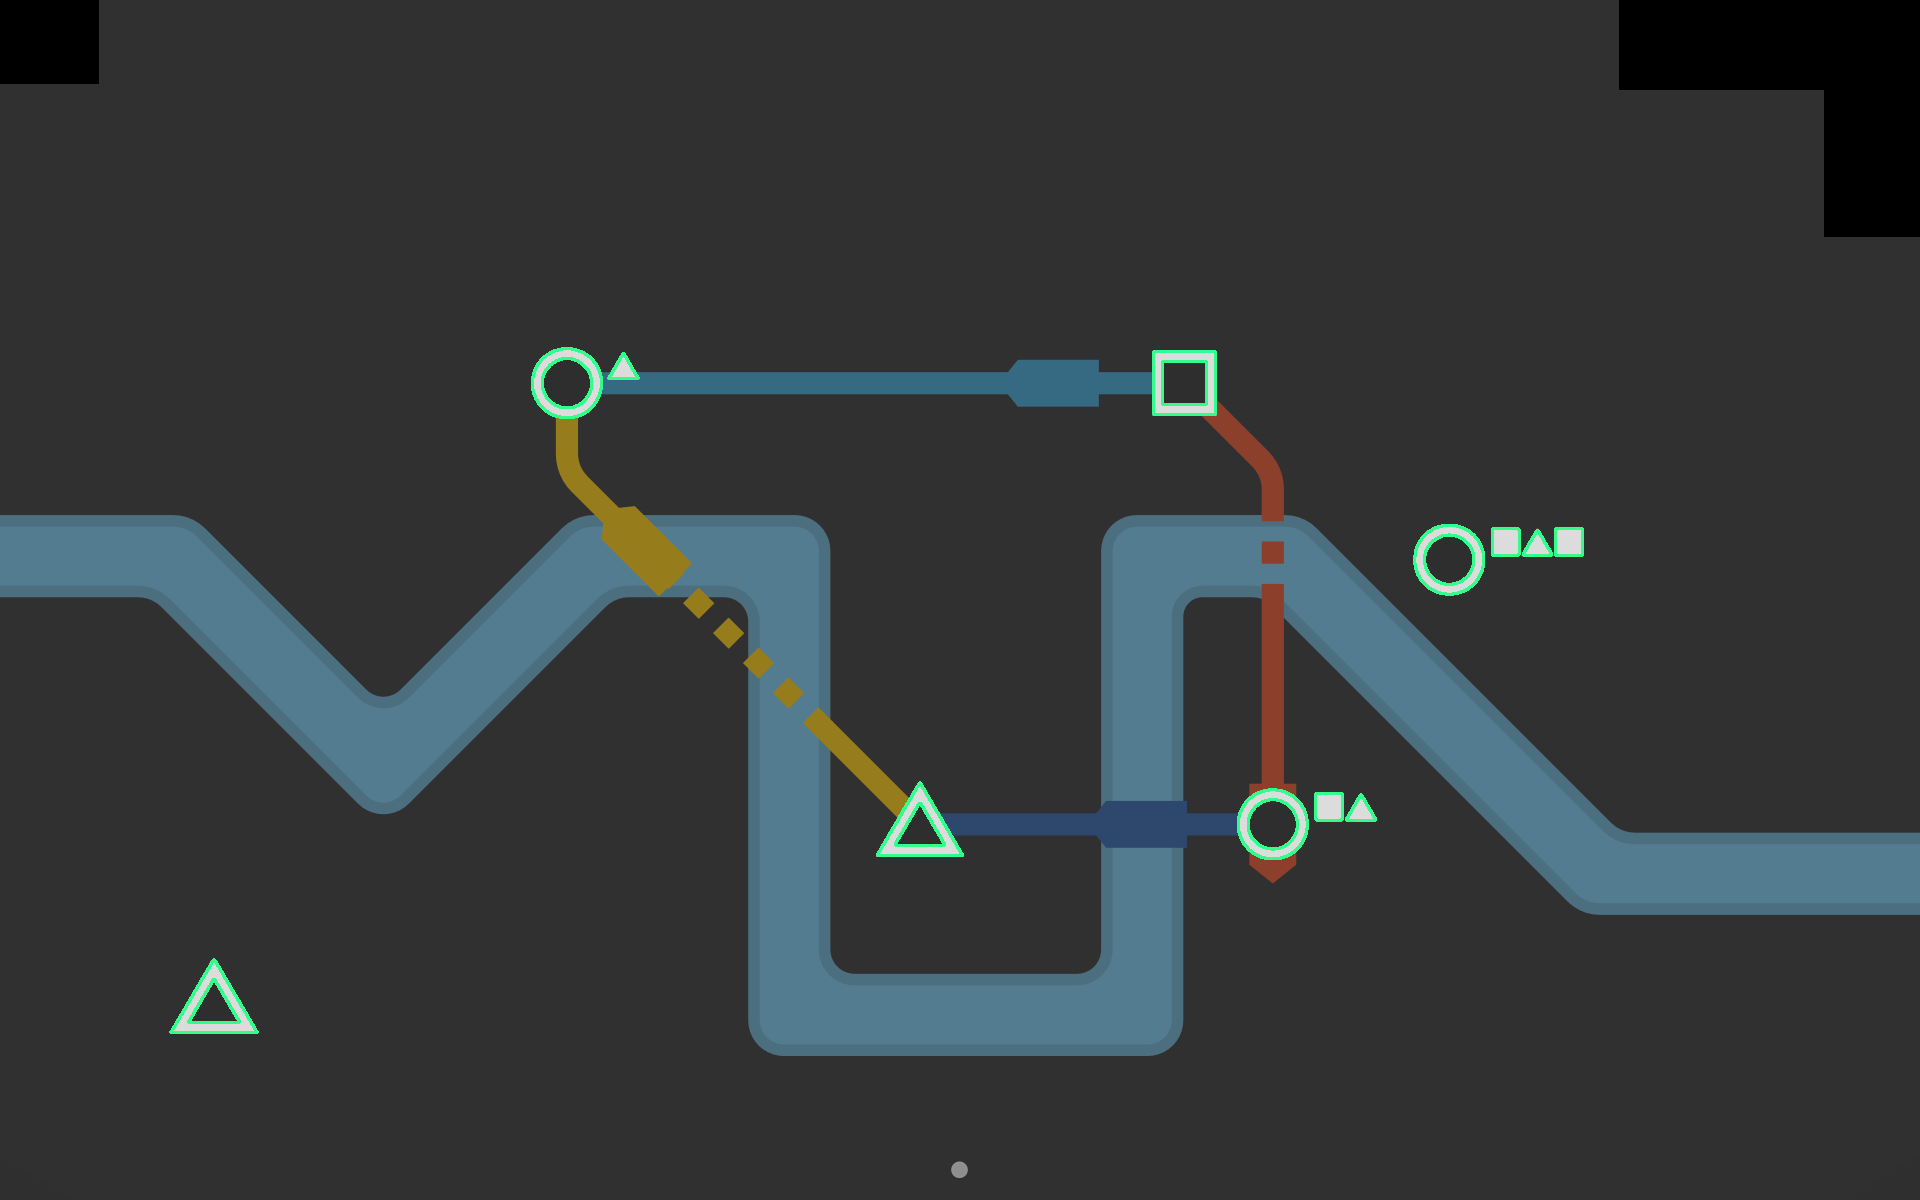
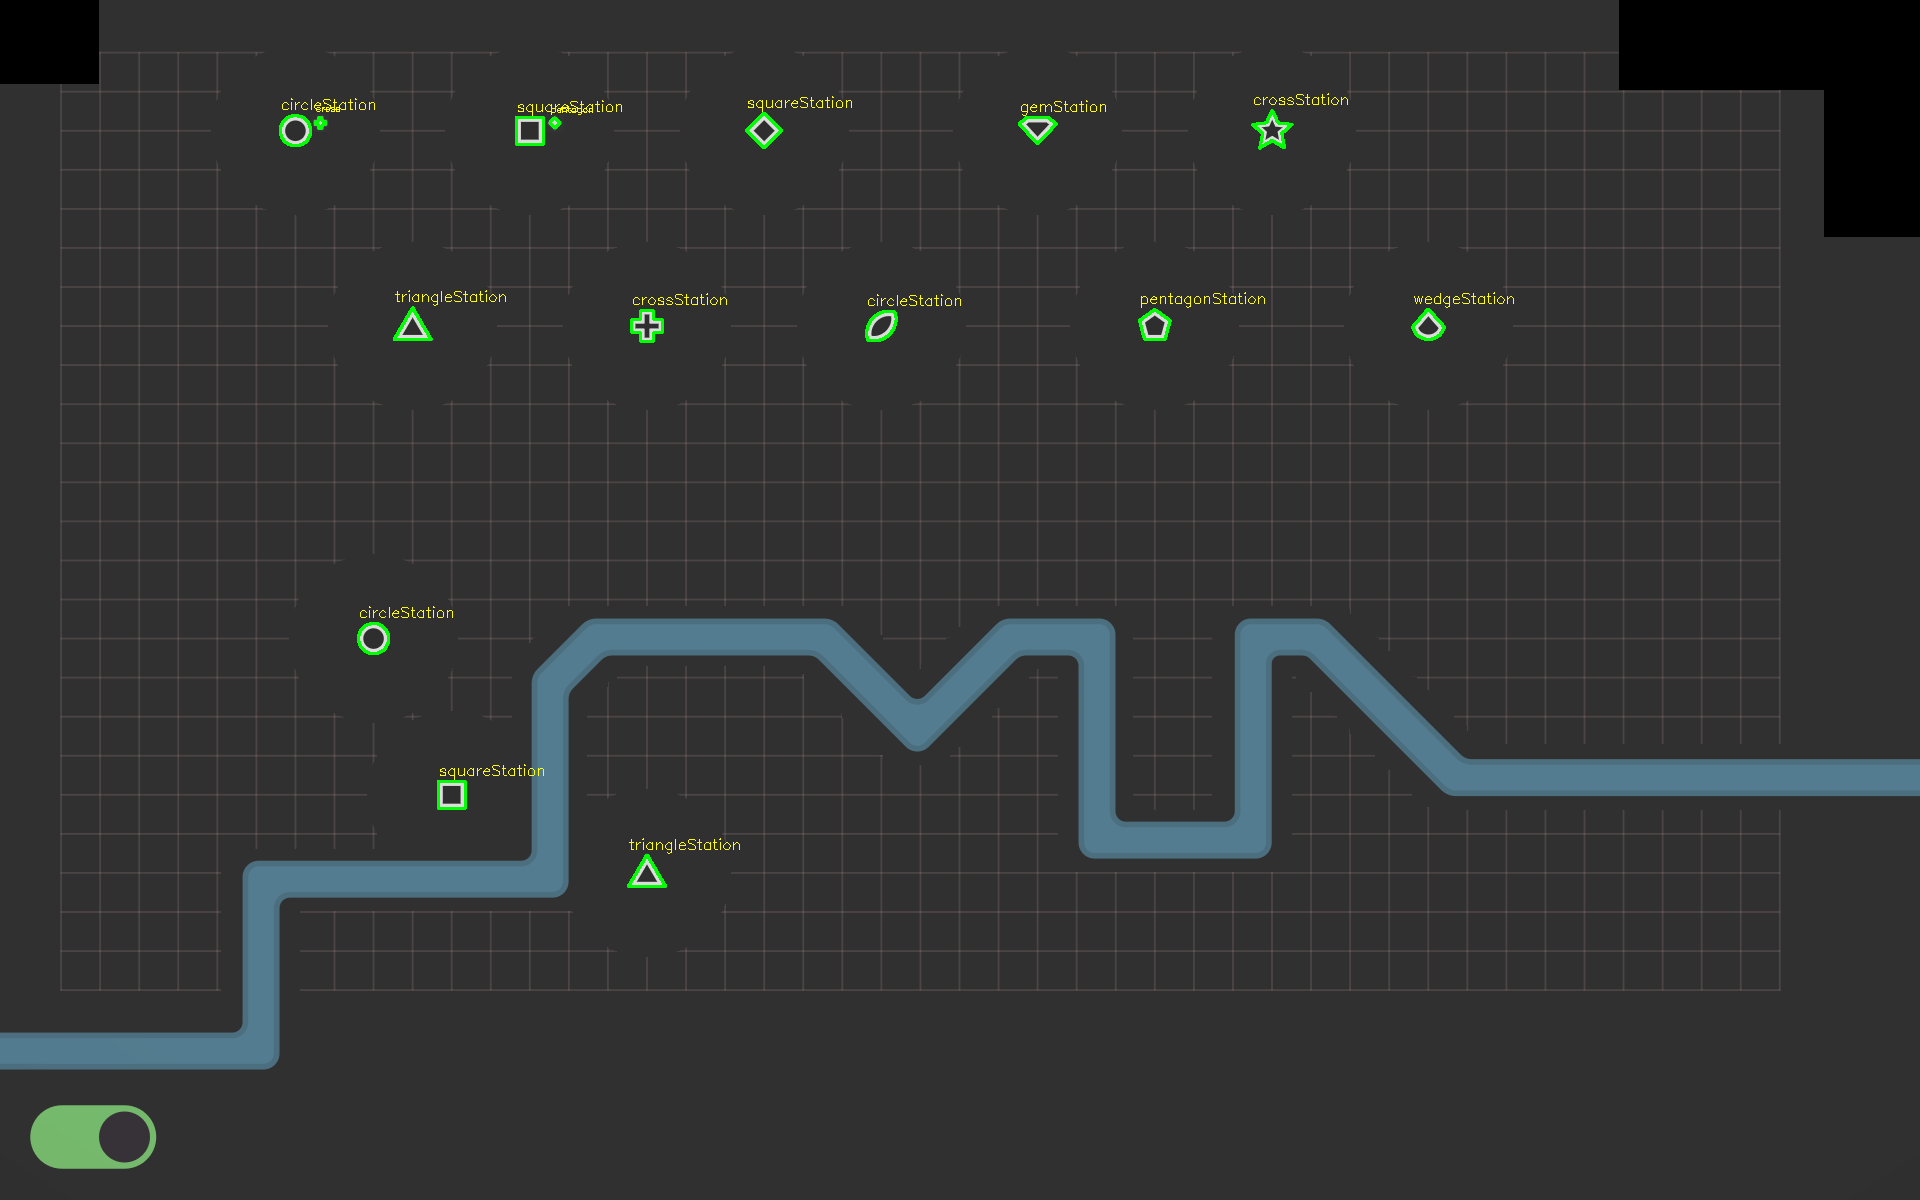
added the classificiation logic. kinda works needs work

diff --git a/main.py b/main.py
@@ -1,8 +1,8 @@
 import mss
 import numpy as np
 import cv2
-
 from enum import Enum
+import pickle
 
 class Shape(Enum):
     CIRCLE = "circle"
@@ -16,6 +16,7 @@ class Shape(Enum):
     DIAMOND = "diamond"
     OVAL = "oval"
     NONE = "none"
+
 
 def capture_screen() -> np.ndarray:
     """Capture the full screen as a BGR numpy array."""
@@ -52,12 +53,61 @@ def mask_ui(frame: np.ndarray) -> np.ndarray:
     frame[0:237, 1824:] = 0 # vert bottom rect
     return frame
 
-def classify_contours(contour) -> Shape:
-    #TODO
-    return Shape.NONE
+
+def load_templates(path="templates.pkl") -> dict:
+    with open(path, "rb") as f:
+        return pickle.load(f)
+
+def classify_contour(contour, templates: dict) -> Shape:
+    # Step 1 — matchShapes against all templates
+    scores = {
+        name: cv2.matchShapes(contour, template, cv2.CONTOURS_MATCH_I1, 0)
+        for name, template in templates.items()
+    }
+    best = min(scores, key=scores.get)
+
+    # Step 2 — refinement for ambiguous pairs
+    best = refine(contour, best, scores)
+
+    return Shape(best)
+
+
+def refine(contour, best: str, scores: dict) -> str:
+    x, y, w, h = cv2.boundingRect(contour)
+    aspect = max(w, h) / min(w, h)
+
+    hull_area = cv2.contourArea(cv2.convexHull(contour))
+    area      = cv2.contourArea(contour)
+    solidity  = area / hull_area
+
+    approx   = cv2.approxPolyDP(contour, 0.04 * cv2.arcLength(contour, True), True)
+    vertices = len(approx)
+
+    # square vs diamond
+    if best in ('square', 'diamond'):
+        return 'diamond' if aspect > 1.2 else 'square'
+
+    # circle vs oval — lower threshold, oval is only slightly elongated
+    if best in ('circle', 'oval'):
+        return 'oval' if aspect > 1.15 else 'circle'
+
+    # star vs cross vs triangle — use solidity + vertices
+    if best in ('star', 'cross', 'triangle'):
+        if vertices == 3:    return 'triangle'   # triangles have exactly 3 vertices
+        if solidity < 0.55:  return 'star'       # very non-convex = star
+        return 'cross'                            # blockier non-convex = cross
+
+    # gem vs diamond vs square
+    if best in ('gem', 'diamond', 'square') and vertices == 4:
+        if aspect < 1.2:  return 'square'
+        if aspect < 1.8:  return 'gem'
+        return 'diamond'
+
+    return best
 
 def main():
     frame = capture_screen()
+    frame = mask_ui(frame)
     white_only = isolate_white_shapes(frame)
     gray = cv2.cvtColor(white_only, cv2.COLOR_BGR2GRAY)
     _, binary = cv2.threshold(gray, 200, 255, cv2.THRESH_BINARY)
@@ -65,10 +115,30 @@ def main():
 
     debug = frame.copy()  # use the original color frame so you can see context
 
+    stations = [c for i, c in enumerate(contours_list) if hierarchy[0][i][2] != -1]  # has child all outer contours
+    passengers = [c for i, c in enumerate(contours_list) if (hierarchy[0][i][2] == -1 and hierarchy[0][i][3] == -1)]  # has no child and no parent
     # Draw ALL contours
-    cv2.drawContours(debug, contours_list, -1, (139, 255, 50), 2)
-    cv2.imshow("all contours", debug)
+
+    templates = load_templates()
+
+    for i, c in enumerate(stations):
+        shape = classify_contour(c, templates)
+
+        cx, cy, cw, ch = cv2.boundingRect(c)
+        cv2.drawContours(debug, [c], 0, (0, 255, 0), 2)
+        cv2.putText(debug, shape.value+"Station", (cx, cy - 6),
+                    cv2.FONT_HERSHEY_SIMPLEX, 0.5, (0, 255, 255), 1)
+
+    for i, c in enumerate(passengers):
+        shape = classify_contour(c, templates)
+
+        cx, cy, cw, ch = cv2.boundingRect(c)
+        cv2.drawContours(debug, [c], 0, (0, 255, 0), 2)
+        cv2.putText(debug, shape.value, (cx, cy - 6),
+                    cv2.FONT_HERSHEY_SIMPLEX, 0.3, (0, 255, 255), 1)
+
     cv2.imwrite("contours.png", debug)
+    cv2.imshow("contours", debug)
     cv2.waitKey(0)
 
 if __name__ == "__main__":

diff --git a/template_extractor.py b/template_extractor.py
@@ -1,0 +1,99 @@
+import cv2
+import numpy as np
+import pickle
+from main import capture_screen, isolate_white_shapes, mask_ui
+
+# Global state for click callback
+selected_contour = None
+contours_list    = []
+hierarchy        = None
+
+def find_contour_at(x, y):
+    """Return the outermost contour whose bounding box contains (x, y)."""
+    for i, c in enumerate(contours_list):
+        if hierarchy[0][i][2] == -1:  # skip non-stations (no child)
+            continue
+        cx, cy, cw, ch = cv2.boundingRect(c)
+        if cx <= x <= cx + cw and cy <= y <= cy + ch:
+            return c
+    return None
+
+def on_click(event, x, y, flags, param):
+    global selected_contour
+    if event == cv2.EVENT_LBUTTONDOWN:
+        c = find_contour_at(x, y)
+        if c is not None:
+            selected_contour = c
+            print(f"Contour selected at ({x}, {y}) — press a key to label it")
+
+def main():
+    global contours_list, hierarchy, selected_contour
+
+    templates = {}  # Shape name string → contour
+
+    frame = capture_screen()
+    frame = mask_ui(frame)
+    white_only = isolate_white_shapes(frame)
+    gray = cv2.cvtColor(white_only, cv2.COLOR_BGR2GRAY)
+    _, binary = cv2.threshold(gray, 200, 255, cv2.THRESH_BINARY)
+    contours_list, hierarchy = cv2.findContours(binary, cv2.RETR_CCOMP, cv2.CHAIN_APPROX_NONE)
+
+    # Draw all station contours on debug frame
+    debug = frame.copy()
+    for i, c in enumerate(contours_list):
+        if hierarchy[0][i][2] != -1:  # stations only
+            cv2.drawContours(debug, [c], 0, (0, 255, 0), 2)
+            cx, cy, cw, ch = cv2.boundingRect(c)
+            cv2.putText(debug, str(i), (cx, cy - 4),
+                        cv2.FONT_HERSHEY_SIMPLEX, 0.4, (0, 255, 255), 1)
+
+    cv2.imshow("Template Extractor — click a station, then press its label key", debug)
+    cv2.setMouseCallback("Template Extractor — click a station, then press its label key", on_click)
+
+    # Key → shape name mapping
+    key_map = {
+        ord('c'): 'circle',
+        ord('t'): 'triangle',
+        ord('s'): 'square',
+        ord('p'): 'pentagon',
+        ord('x'): 'cross',
+        ord('w'): 'wedge',
+        ord('g'): 'gem',
+        ord('d'): 'diamond',
+        ord('o'): 'oval',
+        ord('*'): 'star',    # press shift+8
+    }
+
+    print("Controls: click a green contour, then press the label key")
+    print("  c=circle  t=triangle  s=square  p=pentagon")
+    print("  x=cross   w=wedge     g=gem      d=diamond  o=oval  *=star")
+    print("  q=quit and save")
+
+    while True:
+        key = cv2.waitKey(0) & 0xFF
+
+        if key == ord('q'):
+            break
+
+        if key in key_map and selected_contour is not None:
+            name = key_map[key]
+            templates[name] = selected_contour
+            print(f"Saved template: {name}")
+
+            # Draw confirmation on debug frame
+            cx, cy, cw, ch = cv2.boundingRect(selected_contour)
+            cv2.putText(debug, name, (cx, cy - 18),
+                        cv2.FONT_HERSHEY_SIMPLEX, 0.5, (0, 165, 255), 2)
+            cv2.imshow("Template Extractor — click a station, then press its label key", debug)
+            selected_contour = None
+
+    cv2.destroyAllWindows()
+
+    # Save templates to disk
+    with open("templates.pkl", "wb") as f:
+        pickle.dump(templates, f)
+    print(f"Saved {len(templates)} templates to templates.pkl")
+    print("Shapes saved:", list(templates.keys()))
+
+if __name__ == "__main__":
+    main()

diff --git a/test.py b/test.py
@@ -1,0 +1,4 @@
+import pickle
+with open("templates.pkl", "rb") as f:
+    templates = pickle.load(f)
+print(templates.keys())
